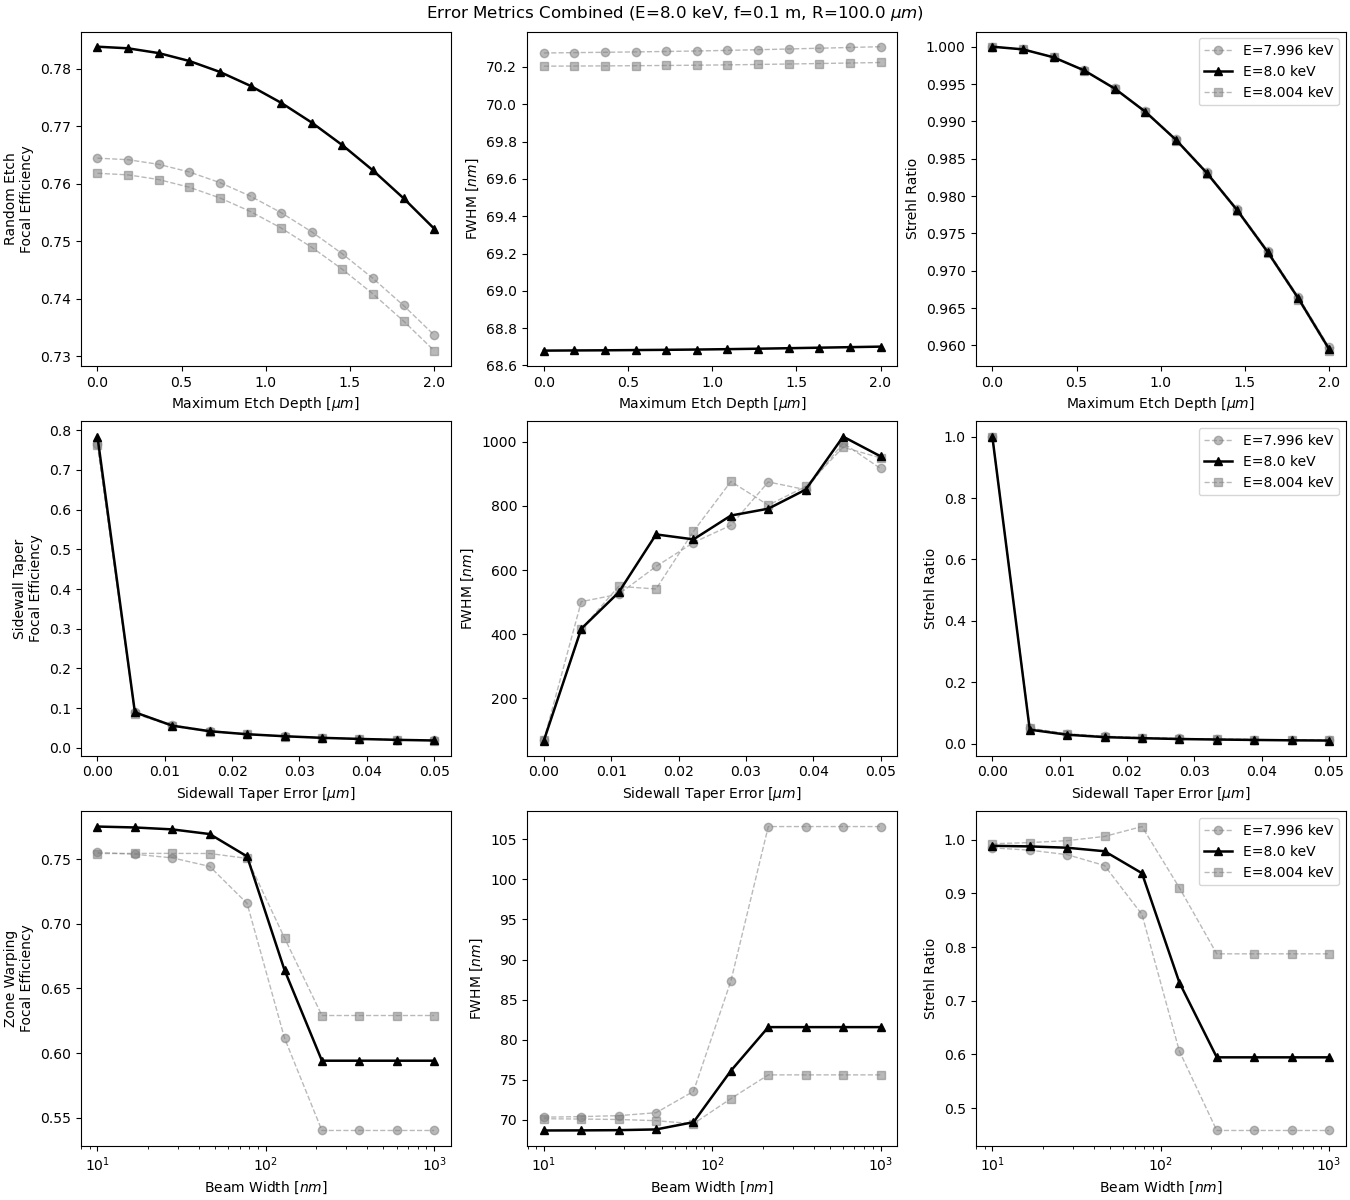
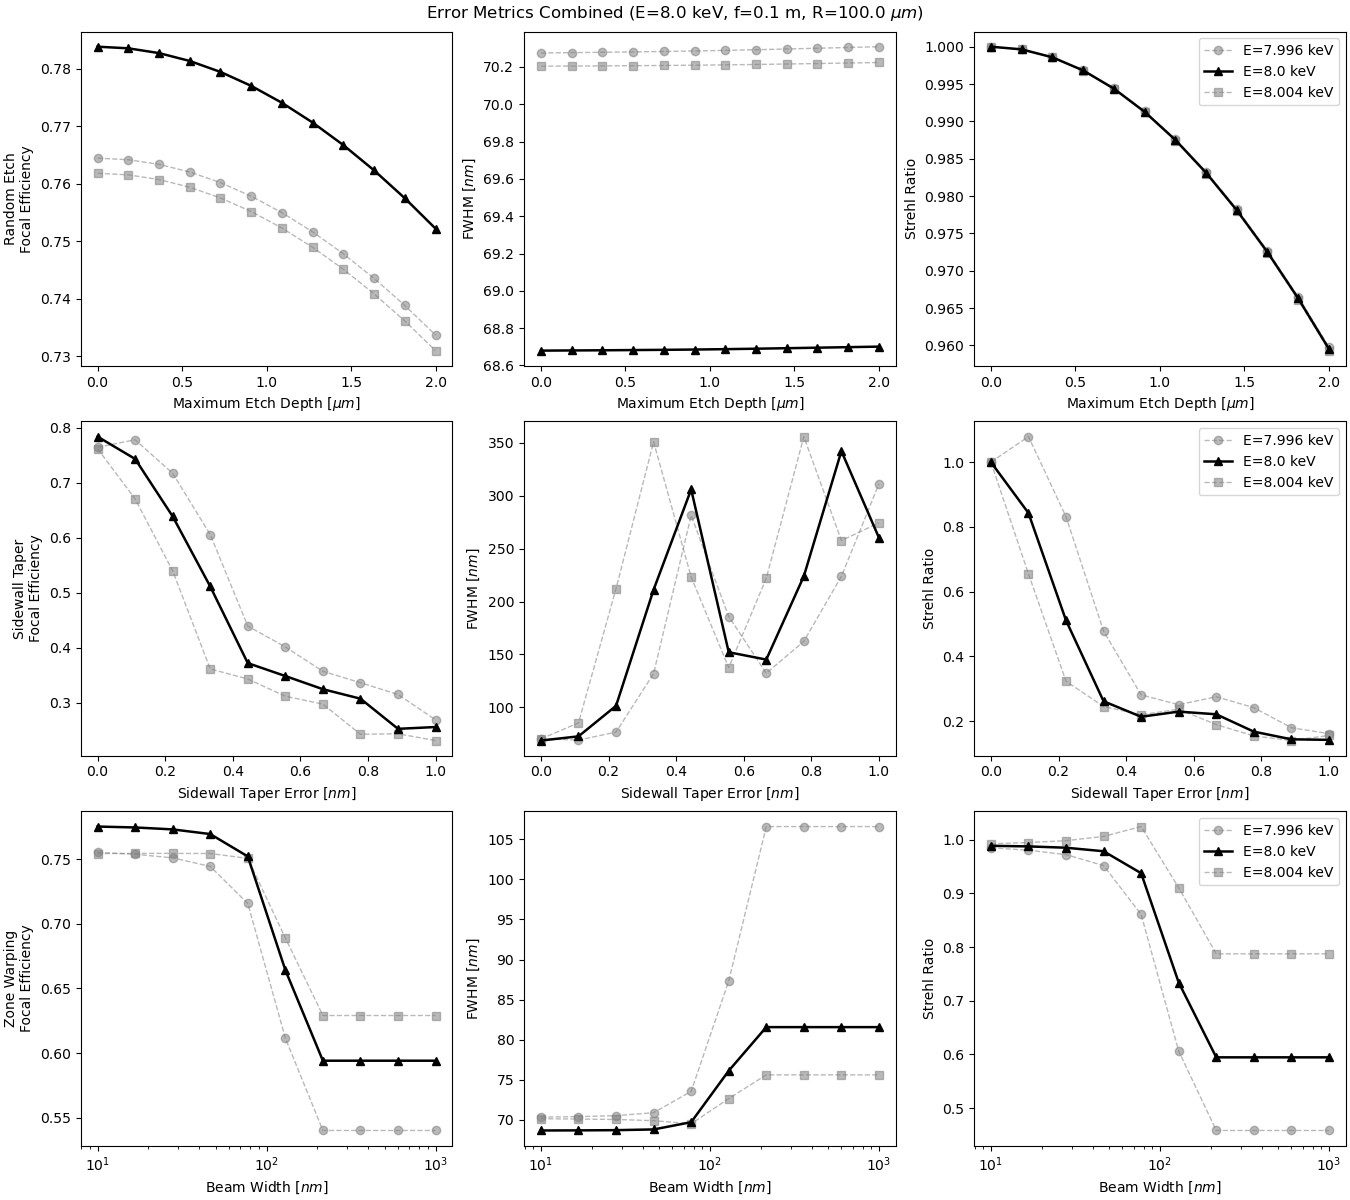
small fixes

diff --git a/optics/metrics/error_metrics.py b/optics/metrics/error_metrics.py
@@ -288,14 +288,14 @@ def main():
     ### Kinoform sidewall taper
     match input("Analyze kinoform sidewall taper? (y/n): "):
         case "y":
-            err_values = np.linspace(0, 5e-8, 10)
+            err_values = np.linspace(0, 1e-9, 10)
             p = 1.0
             labels = {
-                    "xlabel": [r"Sidewall Taper Error $[\mu m]$"] * len(metrics),
+                    "xlabel": [r"Sidewall Taper Error $[nm]$"] * len(metrics),
                     "ylabel": ["Focal Efficiency", r"FWHM $[nm]$", "Strehl Ratio"],
                     "xscale": ["linear"] * len(metrics),
                     "yscale": ["linear", "linear", "linear"],
-                    "x_scale_factor":  1e6,                 # m -> um
+                    "x_scale_factor":  1e9,                 # m -> um
                     "y_scale_factor": [1.0, 1e9, 1.0],
                     "label": [f"E={E_i/1000} keV" for E_i in E_range],
                     "title": rf"Sidewall Taper (proportion={p}) for (E={E/1000} keV, f={f} m, R={R*1e6} $[\mu m]$) Kinoform",
@@ -310,7 +310,7 @@ def main():
     ### Cap height (sweep by proportion of full kinoform height)
     match input("Analyze cap height? (y/n): "):
         case "y":
-            err_values = np.linspace(1.0, 0.1, 10)
+            err_values = np.linspace(1.0, 0.9, 10)
             labels = {
                     "xlabel": [r"Cap Height Proportion"] * len(metrics),
                     "ylabel": ["Focal Efficiency", r"FWHM $[nm]$", "Strehl Ratio"],
@@ -331,7 +331,7 @@ def main():
     ### Cap floor (sweep by proportion of full kinoform height)
     match input("Analyze cap floor? (y/n): "):
         case "y":
-            err_values = np.linspace(1e-3, 0.5, 10)
+            err_values = np.linspace(1e-3, 0.1, 10)
             labels = {
                     "xlabel": [r"Cap Floor Proportion"] * len(metrics),
                     "ylabel": ["Focal Efficiency", r"FWHM $[nm]$", "Strehl Ratio"],

diff --git a/optics/metrics/lens_comparison.py b/optics/metrics/lens_comparison.py
@@ -171,7 +171,7 @@ def plot_comparison_2D(results, savepath, extend=False):
         except:
             R_min = -lens.R
             
-        lens.plot_profile(ax=ax[i, 0], labels=lens_labels, R_min=R_min)
+        lens.plot_profile(ax=ax[i, 0], labels=labels, R_min=R_min)
         
         ## Lens phase plot
         lens_labels = dict(labels)
@@ -215,7 +215,7 @@ def test_compare_xray_lenses(lens_dict, N, dim, extend=False):
     
     # Parameters
     Lx = 3e-4
-    Ly = 3e-4 if dim == 2 else None
+    Ly = Lx if dim == 2 else None
     Lz = 10000
     E = 8e3        # eV
     f = 0.1        # m
